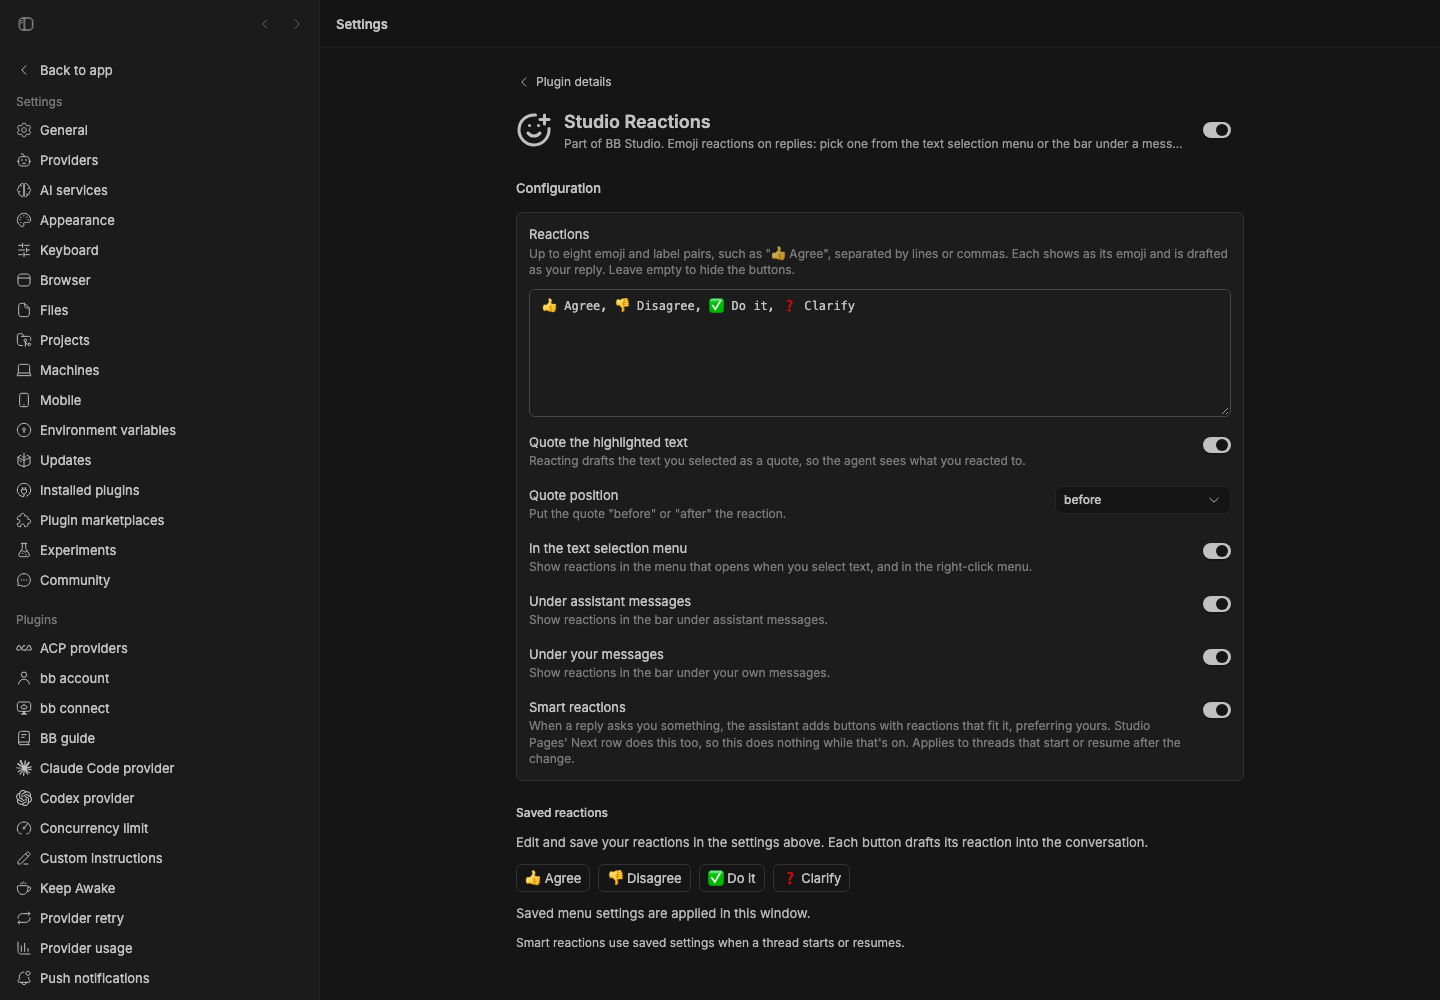
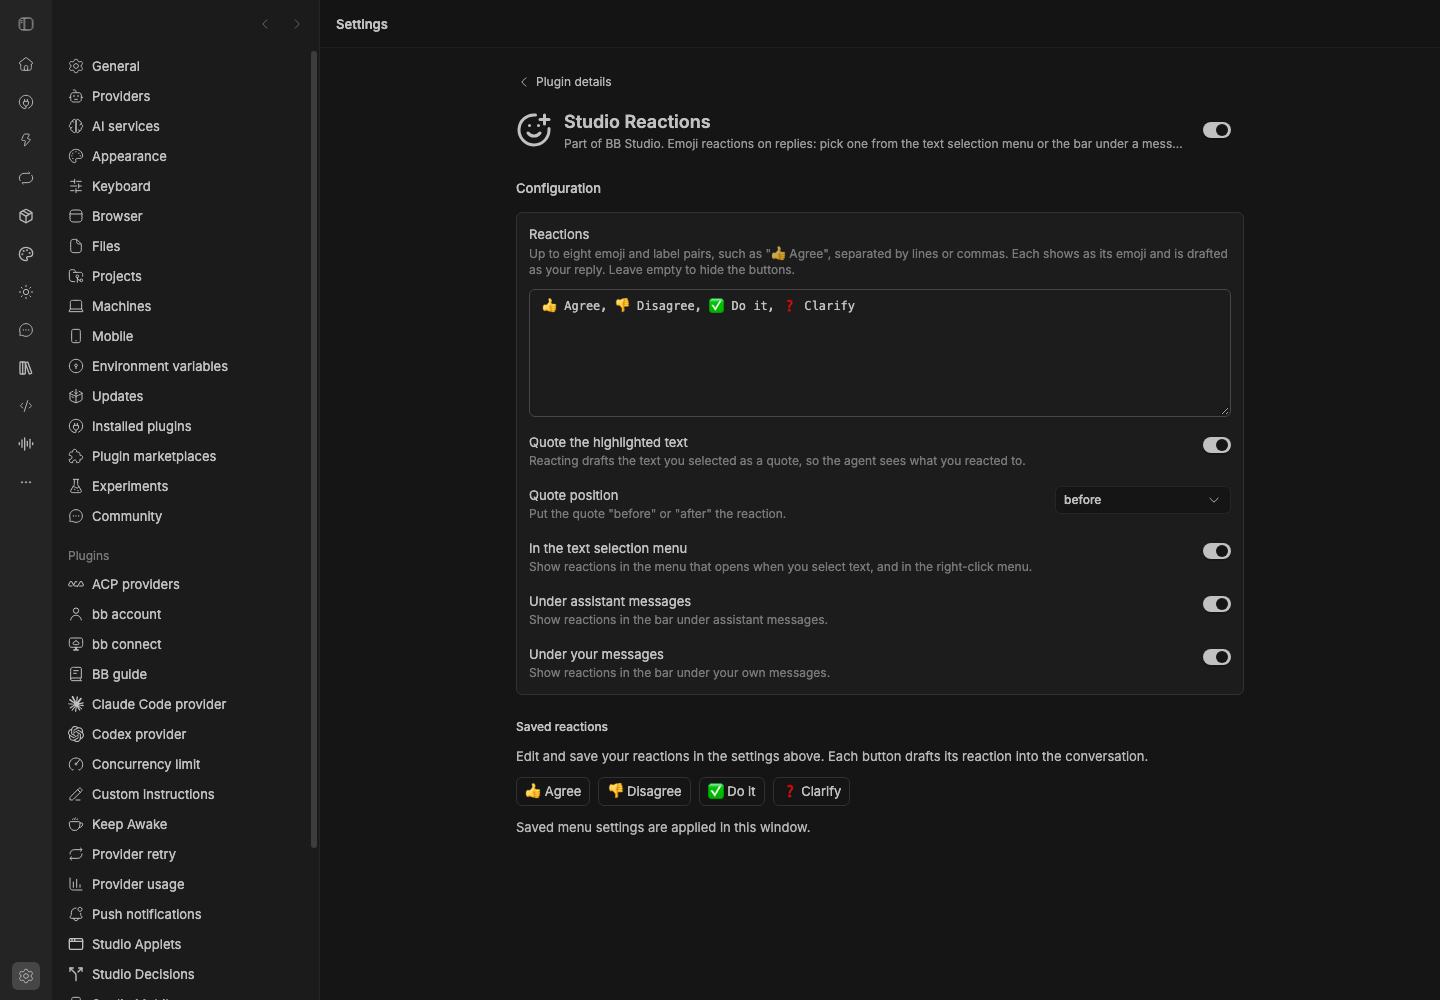
Reactions: recapture the settings without Smart reactions

Changed region(s): [[0.0, 0.062, 0.1562, 0.992], [0.3438, 0.682, 0.8125, 0.961]]

diff --git a/packages/bb-studio-reactions/README.md b/packages/bb-studio-reactions/README.md
@@ -41,12 +41,11 @@ line never shows while the plugin is enabled.
 
 ![Live BB screenshot of Studio Reactions settings](assets/staged-preview.png)
 
-Captured from a staged stable BB at commit `306c841`. The native settings
+Captured from a staged stable BB at commit `6f85cdb`. The native settings
 form is the only reaction editor. It shows the default reaction list (Agree,
 Disagree, Do it, Clarify), quoting before the reaction, and all three location
 toggles enabled. The saved preview below confirms these menu settings are
-applied in this window. This capture predates the removal of smart reactions
-and still shows the old **Smart reactions** switch; it needs a recapture.
+applied in this window.
 
 ## Settings
 
